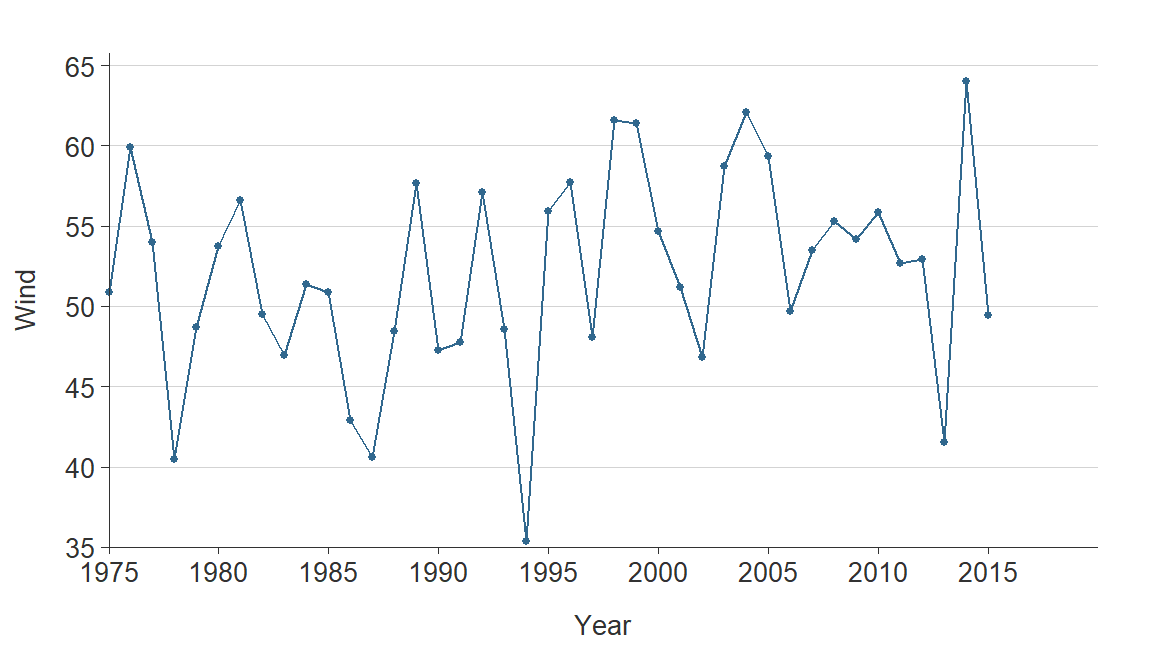
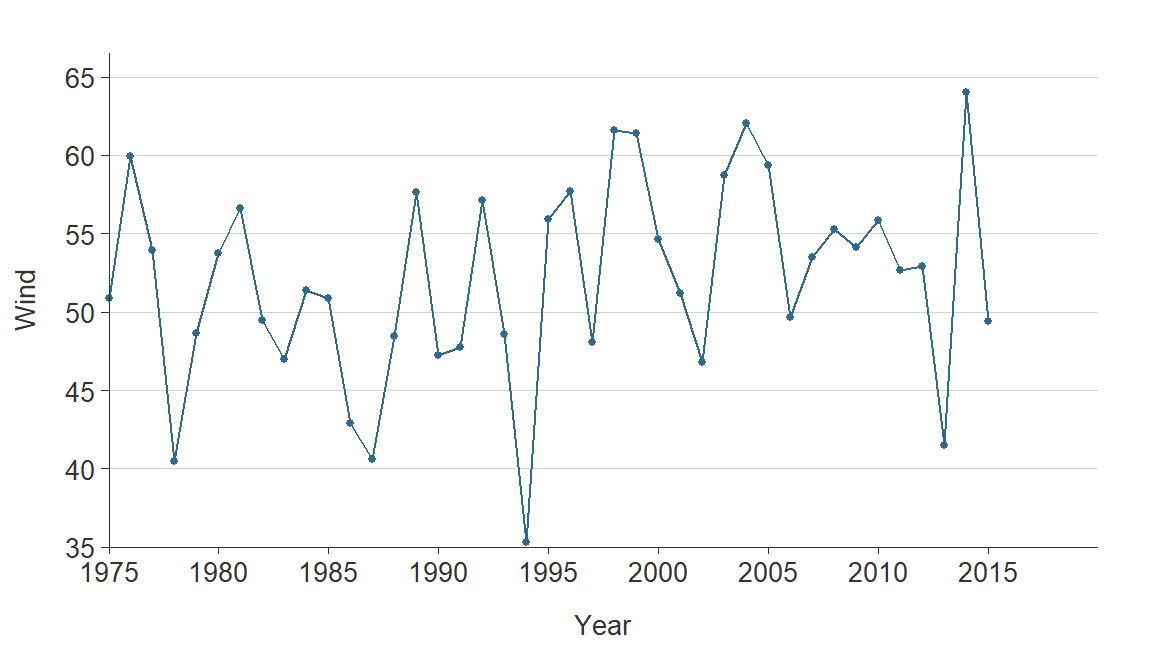
Update

diff --git a/content/post/2021-06-27-scales-with-simplevis/index.html b/content/post/2021-06-27-scales-with-simplevis/index.html
@@ -191,7 +191,7 @@ gg_hbar_col(plot_data, average_price, cut, clarity,
 
 gg_line(plot_data, year, wind, 
         x_expand = ggplot2::expansion(add = c(0, 5)),
-        y_expand = ggplot2::expansion(mult = c(0, 0.025)))</code></pre>
+        y_expand = ggplot2::expansion(mult = c(0, 0.05)))</code></pre>
 <p><img src="{{< blogdown/postref >}}index_files/figure-html/unnamed-chunk-21-1.png" width="576" /></p>
 </div>
 <div id="further-information" class="section level3">
